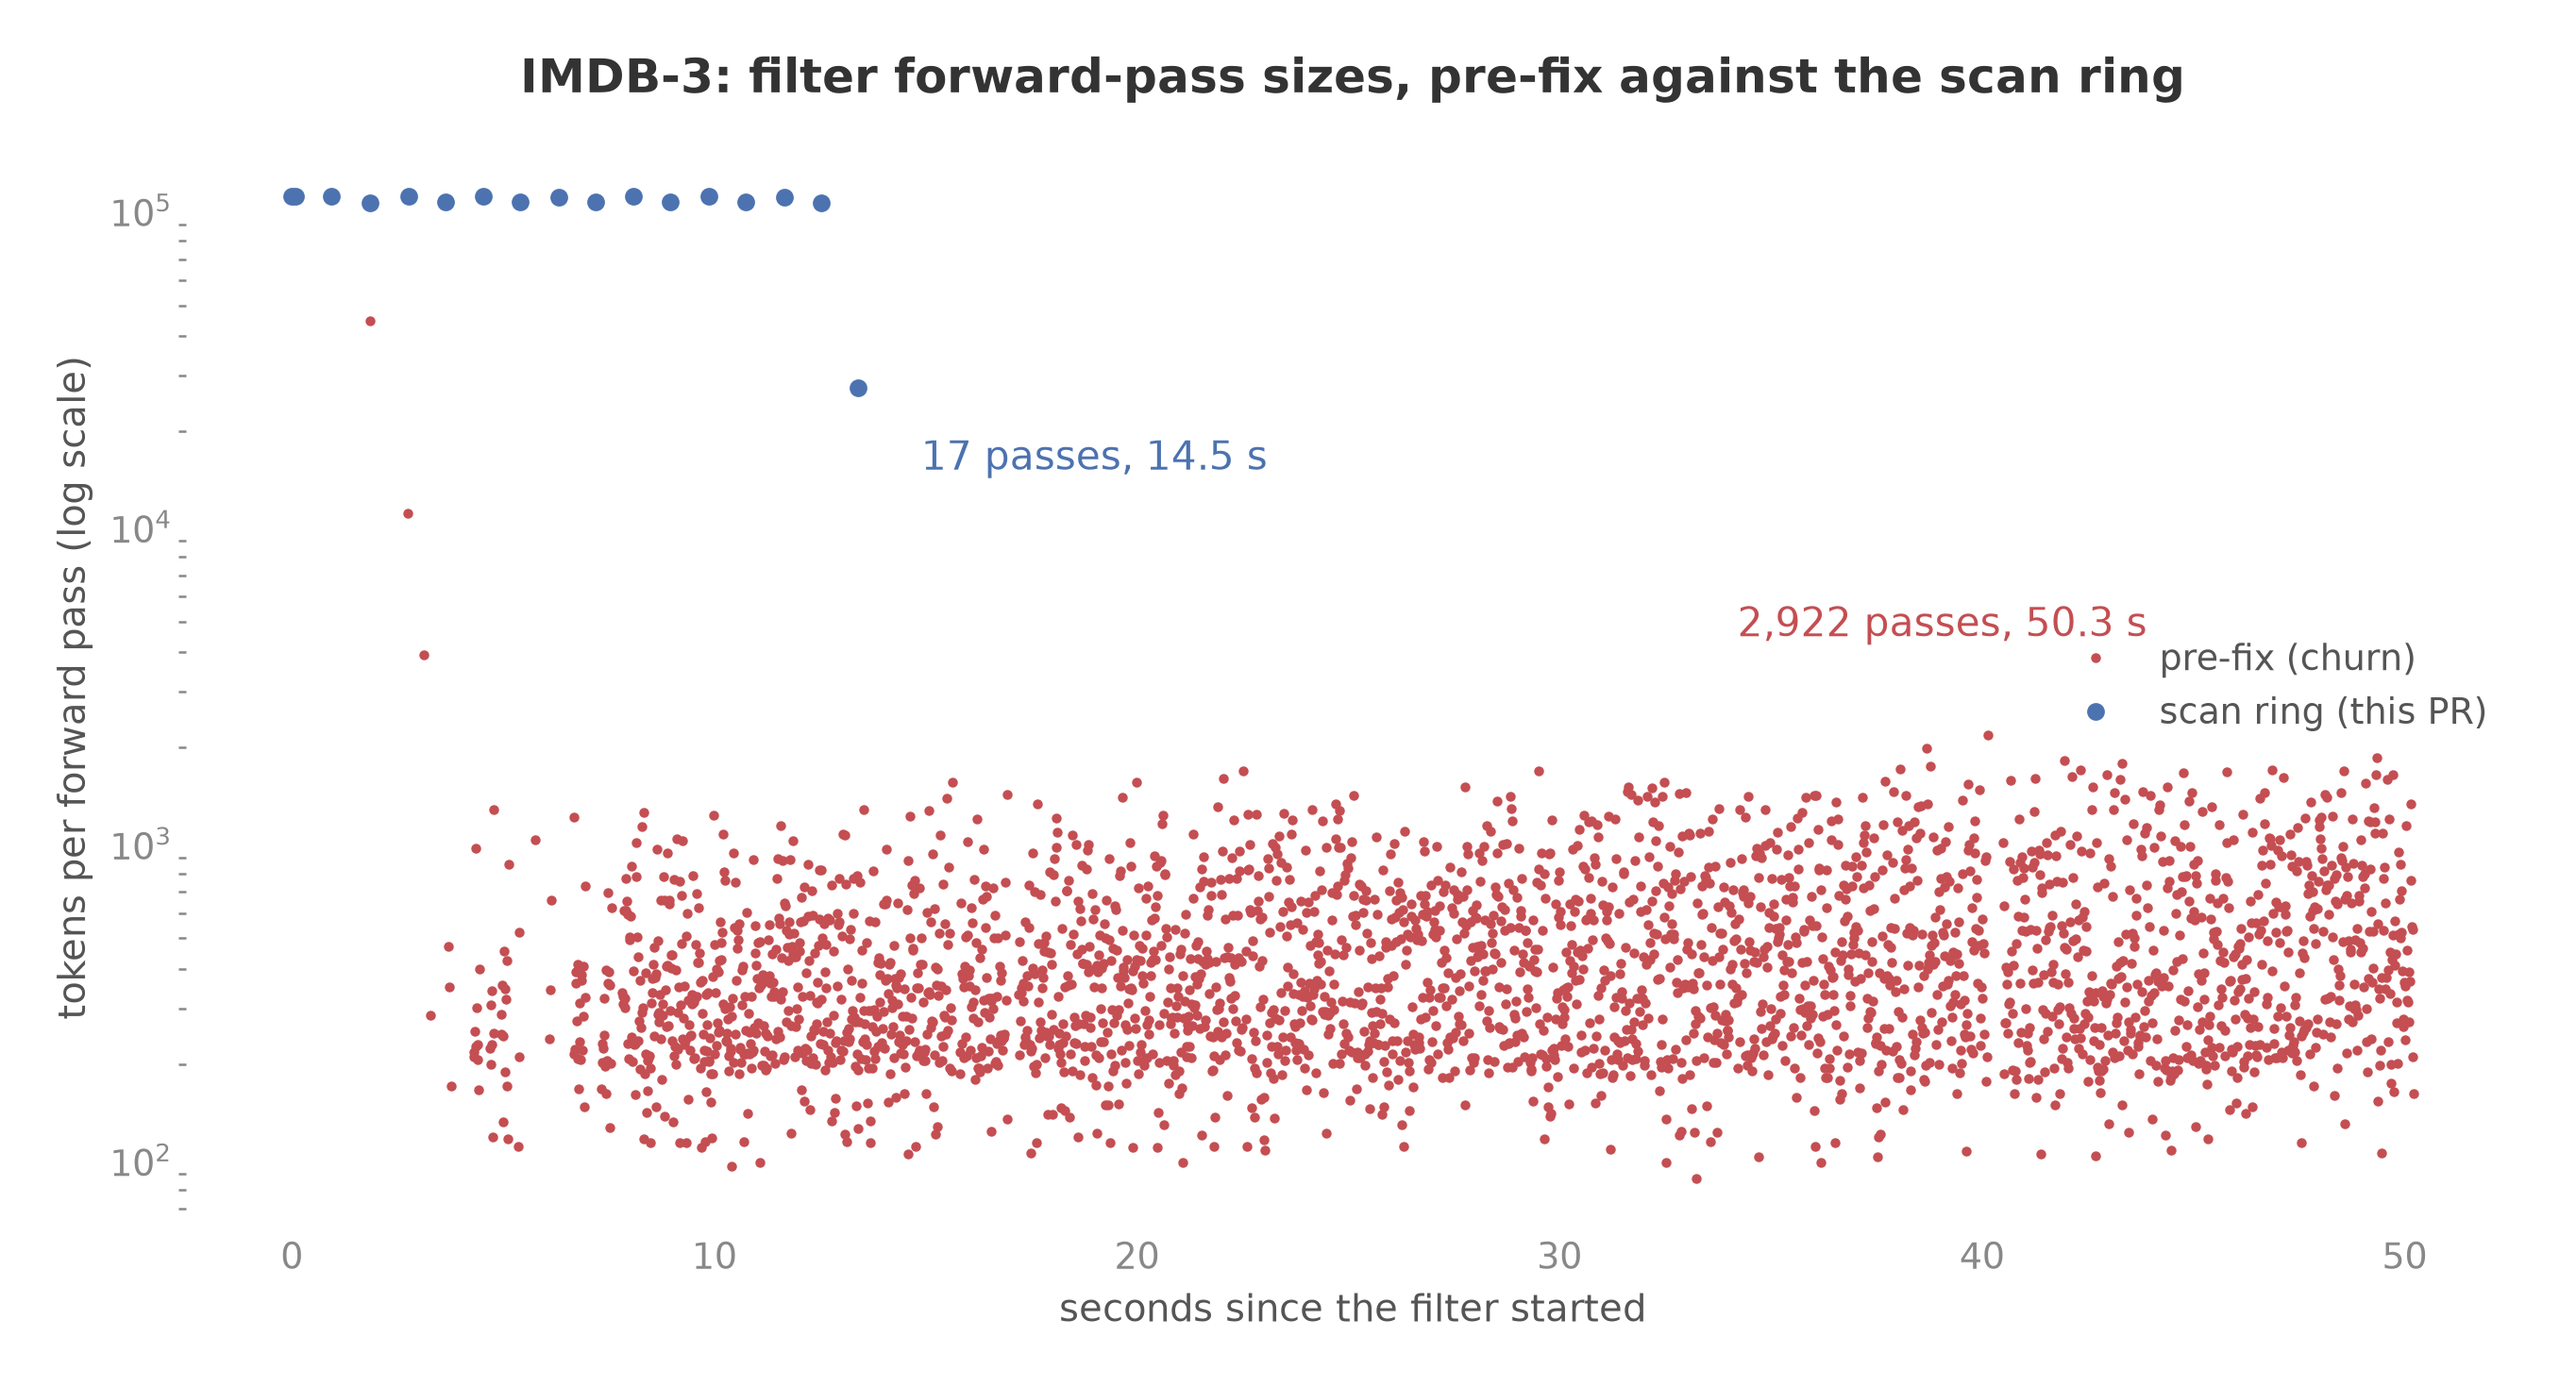
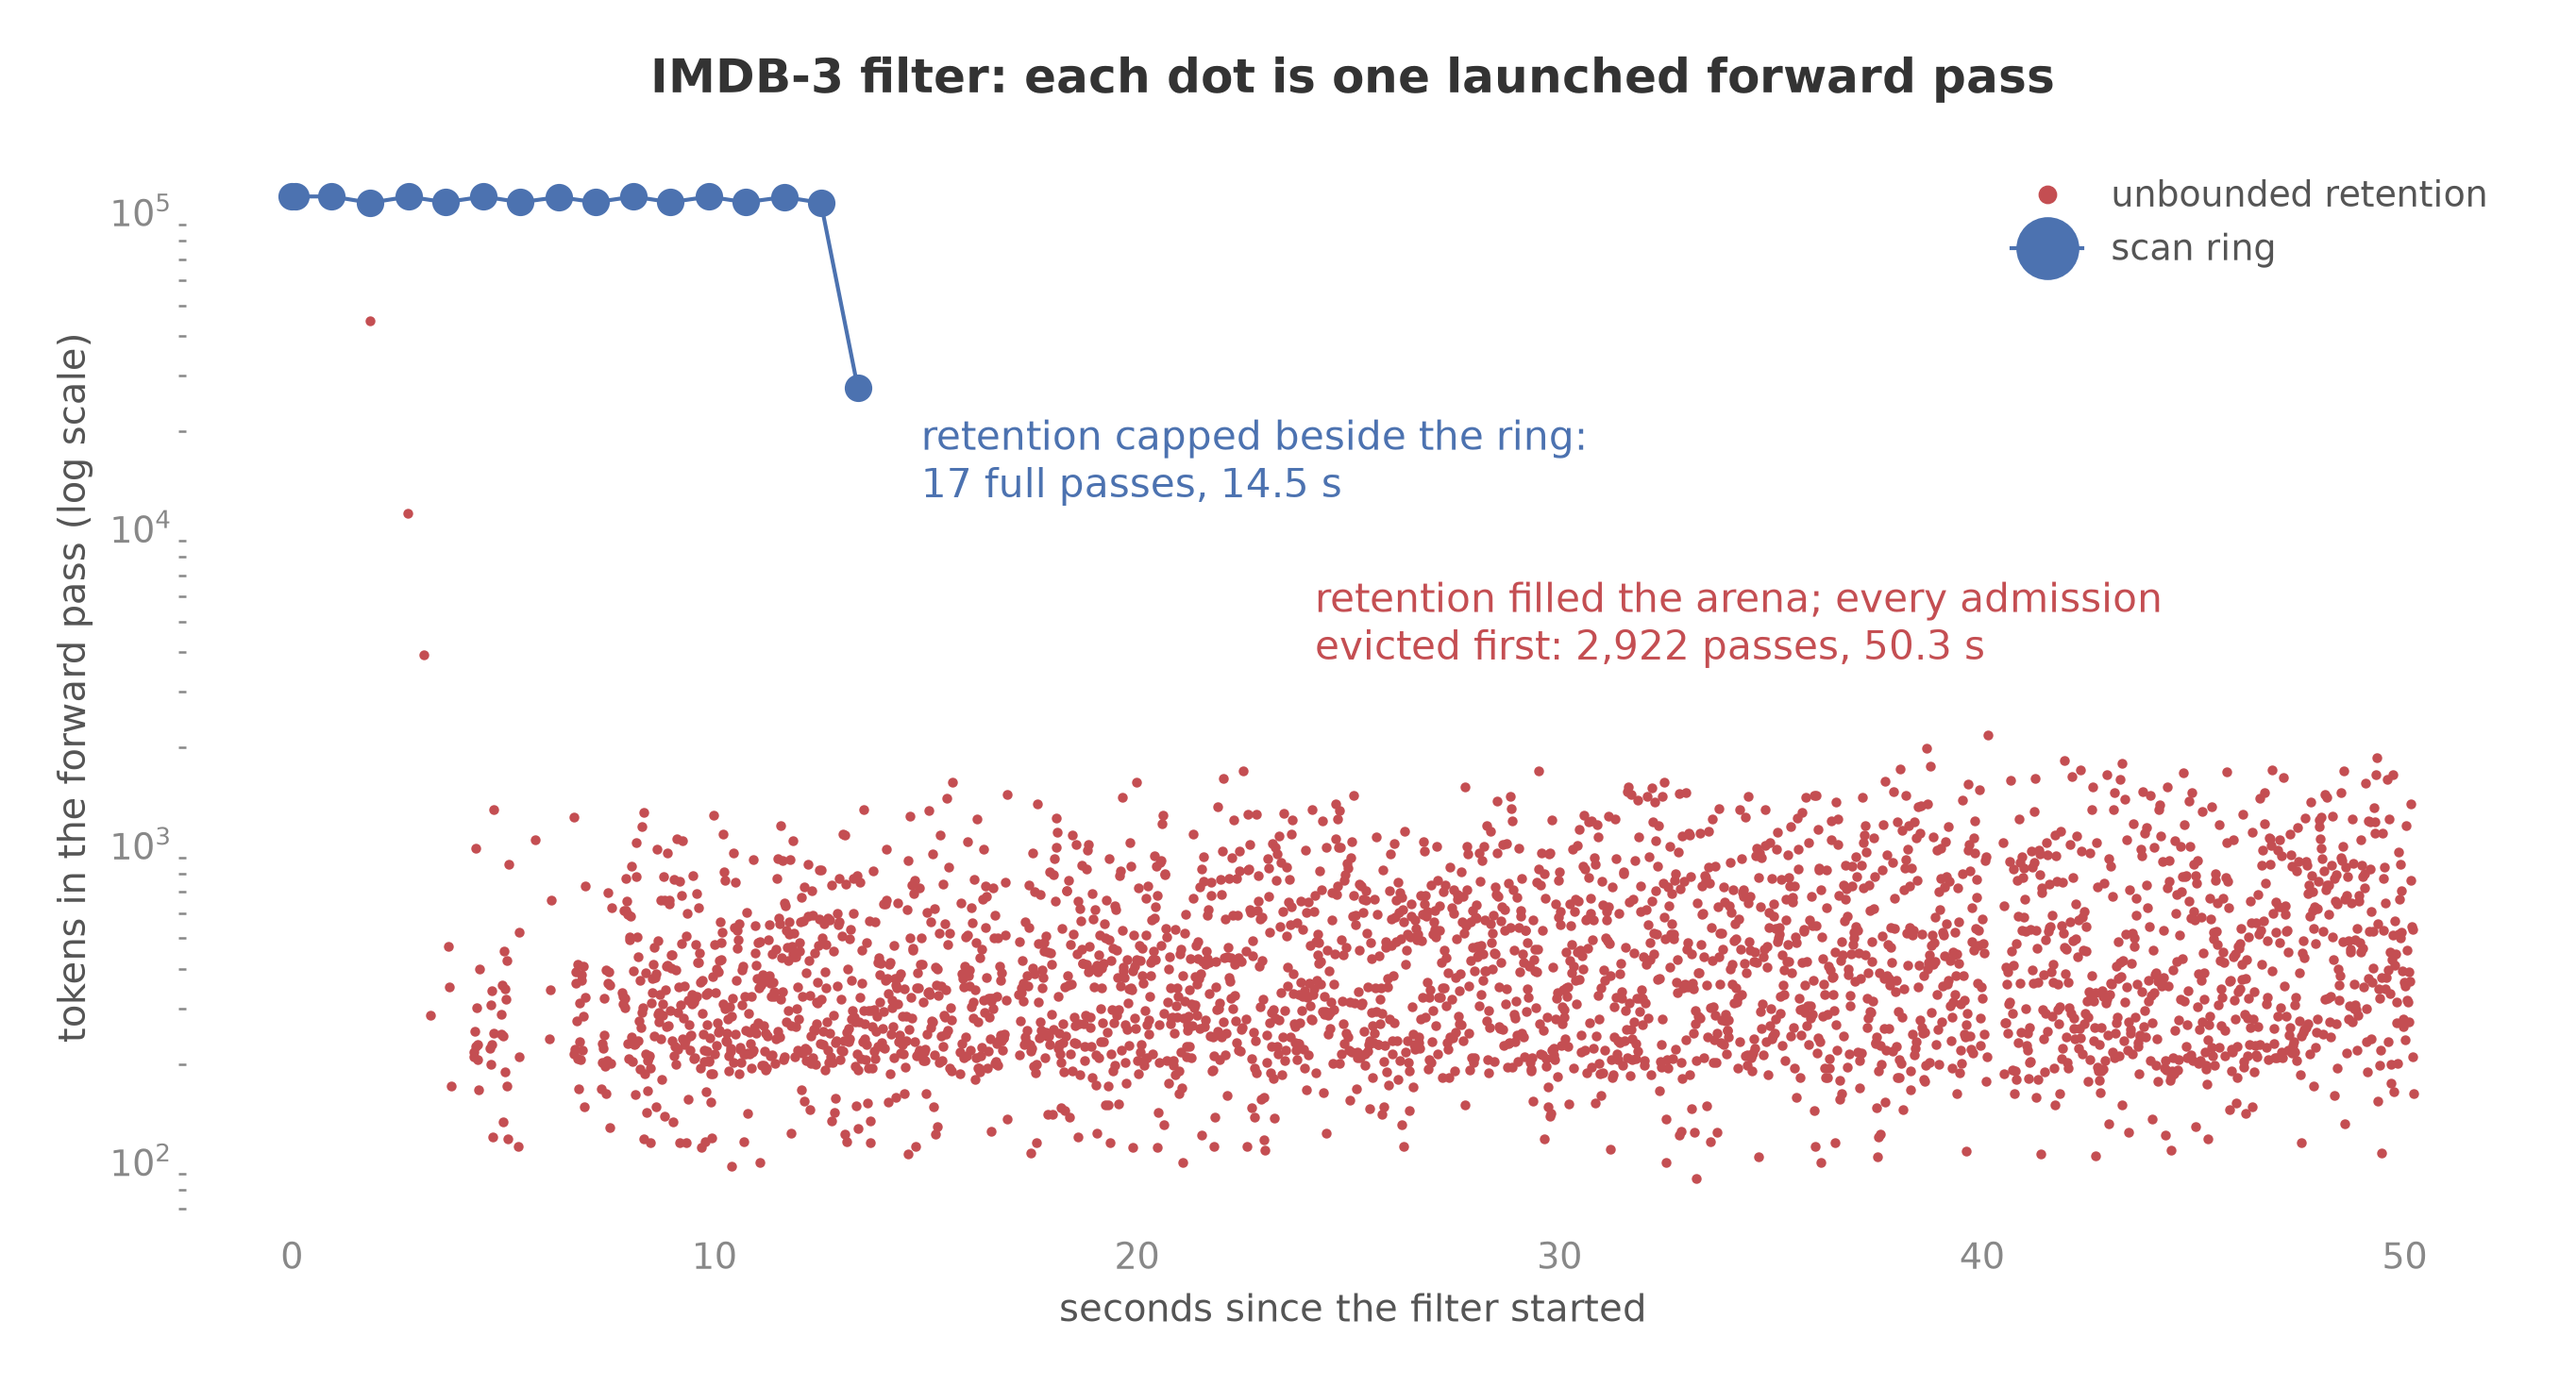
Rename the comparison runs by mechanism and make the timeline plot self-explanatory
The timeline's title now says each dot is one launched forward
pass, the 17 scan-ring passes are connected into a visible launch
sequence, and both runs are named by what they do - unbounded
retention against the scan ring - in the figures and the report,
instead of relative to the fix.

Claude-Session: https://claude.ai/code/session_01LCNhjRhCWLPyrH8TJk6zSt

diff --git a/reports/make_kv_ring_fix_plots.py b/reports/make_kv_ring_fix_plots.py
@@ -52,25 +52,27 @@ def timeline(before, after):
     fig, ax = plt.subplots(figsize=(9, 4.8))
     bx, by = chunk_series(filter_phase(before))
     ax_, ay = chunk_series(filter_phase(after))
-    ax.plot(bx, by, ".", color=RED, ms=3, label="pre-fix (churn)")
-    ax.plot(ax_, ay, ".", color=BLUE, ms=7,
-            label="scan ring (this PR)")
+    ax.plot(bx, by, ".", color=RED, ms=3,
+            label="unbounded retention")
+    ax.plot(ax_, ay, "-o", color=BLUE, ms=6, lw=1,
+            label="scan ring")
     ax.set_yscale("log")
     ax.set_xlabel("seconds since the filter started")
-    ax.set_ylabel("tokens per forward pass (log scale)")
-    ax.set_title("IMDB-3: filter forward-pass sizes, "
-                 "pre-fix against the scan ring")
+    ax.set_ylabel("tokens in the forward pass (log scale)")
+    ax.set_title("IMDB-3 filter: each dot is one launched "
+                 "forward pass")
     bw = filter_phase(before)["wall_s"]
     aw = filter_phase(after)["wall_s"]
-    bn = len(by)
-    an = len(ay)
-    ax.annotate(f"{bn:,} passes, {bw:.1f} s",
-                xy=(bx[-1], by[-1]), xytext=(bx[-1] - 16, 4500),
-                color=RED)
-    ax.annotate(f"{an} passes, {aw:.1f} s",
-                xy=(ax_[-1], ay[-1]),
-                xytext=(ax_[-1] + 1.5, ay[-1] * 0.55), color=BLUE)
-    ax.legend(loc="center right", frameon=False)
+    ax.annotate(
+        f"retention filled the arena; every admission\n"
+        f"evicted first: {len(by):,} passes, {bw:.1f} s",
+        xy=(bx[-1], by[-1]), xytext=(bx[-1] - 26, 3800), color=RED)
+    ax.annotate(
+        f"retention capped beside the ring:\n"
+        f"{len(ay)} full passes, {aw:.1f} s",
+        xy=(ax_[-1], ay[-1]),
+        xytext=(ax_[-1] + 1.5, ay[-1] * 0.45), color=BLUE)
+    ax.legend(loc="upper right", frameon=False, markerscale=2.5)
     fig.tight_layout()
     fig.savefig(OUT / "kv_ring_fix_timeline.png", dpi=300)
 
@@ -98,8 +100,8 @@ def walls(before, after):
     ax.set_xticks(list(x))
     ax.set_xticklabels([f"{n} phase" for n, _, _ in groups])
     ax.set_ylabel("seconds")
-    ax.set_title("IMDB-3 phase walls: pre-fix (gray) against "
-                 "the scan ring (blue)")
+    ax.set_title("IMDB-3 phase walls: unbounded retention (gray) "
+                 "against the scan ring (blue)")
     fig.tight_layout()
     fig.savefig(OUT / "kv_ring_fix_walls.png", dpi=300)
 
@@ -112,7 +114,8 @@ def main(workdir):
     timeline(before, after)
     walls(before, after)
 
-    for name, run in (("pre-fix", before), ("scan ring", after)):
+    for name, run in (("unbounded retention", before),
+                      ("scan ring", after)):
         u = run["unprofiled"]
         f = filter_phase(run)
         print(f"{name}: engine {u['engine_wall_s']}s, filter "

diff --git a/reports/2026-08-30-kv-ring-fix.md b/reports/2026-08-30-kv-ring-fix.md
@@ -44,8 +44,7 @@ never fire.
 Confirming run: `ablations/discrepancy_timeline.py` (the same
 instrumented cell as the discrepancy report; it wraps the engine
 without modifying it) rerun with `--out-prefix ringfix`, sf 0.1,
-Qwen3 4B fp8, one H100, so the pre-fix files stay intact for
-comparison.
+Qwen3 4B fp8, one H100, so the unbounded-retention files stay intact for comparison.
 
 ## Prediction
 
@@ -55,19 +54,20 @@ Stated before the run:
   for the whole scan (tens of chunks, not 2,916) and takes 15 to
   17 seconds, matching IMDB-1's 15.06 seconds for identical work;
   the join stays at about 18.5 to 19.5 seconds; engine wall 34 to
-  38 seconds, against 68.9 measured pre-fix in the same harness and
-  75.0 recorded in the benchmark.
+  38 seconds, against 68.9 measured with unbounded retention in
+  the same harness and 75.0 recorded in the benchmark.
 - IMDB-3 retention: the pool fills to about 8,800 pages
   (141,000 tokens); the join finds about 400 to 500 anchors
   resident (the longest survivors), a similar hit mass to the
-  137,397 tokens the pre-fix run got - the fix does not buy more
+  137,397 tokens the unbounded-retention run got - the fix does
+  not buy more
   hits, it stops paying 35 seconds for them. Regret stays about
   1.2M tokens; the misses just stop costing batch shape.
 - BIO-2: unchanged within noise (about 128 to 131 seconds, regret
   0, no evictions) - its plan retains nothing, so only the shared
   code paths could move it.
 - Smoke first (sf 0.01): corpus fits beside the ring, everything
-  retained, join reuses everything, as pre-fix.
+  retained, join reuses everything, as with unbounded retention.
 
 ## Result
 
@@ -77,7 +77,7 @@ are the unprofiled pass; the profiled pass agrees within 5%.
 
 ### IMDB-3
 
-| | pre-fix | scan ring |
+| | unbounded retention | scan ring |
 |---|---:|---:|
 | Engine wall (s) | 68.93 | 32.68 |
 | Filter phase (s) | 50.28 | 14.54 |
@@ -95,8 +95,8 @@ Figure: plots/kv_ring_fix_timeline.png
 Figure: plots/kv_ring_fix_walls.png
 
 - The engine wall halved: 32.68 seconds, compared with 68.93
-  measured pre-fix in the same harness, 75.0 recorded in the
-  benchmark, and 52.65 recorded for stock vLLM. The filter now runs
+  measured with unbounded retention in the same harness, 75.0
+  recorded in the benchmark, and 52.65 recorded for stock vLLM. The filter now runs
   17 near-budget passes at 99.6% GPU busy (chunk grain) and lands
   at 14.54 seconds - level with IMDB-1's 15.06 seconds for the
   identical filter work, so the composition penalty is gone.
@@ -105,27 +105,29 @@ Figure: plots/kv_ring_fix_walls.png
   start minus the 13,797-page ring), holding 171 of the longest
   survivors at 140,458 tokens - within 0.7% of the planner's
   141,498-token credit. Every one of the 171 was still resident at
-  the join and hit. Zero eviction calls anywhere; pre-fix, churn
+  the join and hit. Zero eviction calls anywhere; with unbounded retention, churn
   evicted 4,260 keys (78,268 pages) during the filter alone. One
   prediction miss, in the right direction: 400 to 500 resident
   anchors were predicted from the corpus mean length, but the
   pool's replacement rule keeps the longest survivors, so the same
   token mass arrived as 171 documents of 821 mean tokens against
   the 310-token survivor mean.
-- Regret is unchanged (1.22M tokens pre and post), as predicted:
-  the fix does not buy more hits - the pre-fix run ended up with a
+- Regret is unchanged (1.22M tokens in both runs), as
+  predicted: the fix does not buy more hits - the
+  unbounded-retention run ended up with a
   similar hit mass - it stops paying 35 seconds of collapsed
   batches for them. Both runs produced the same 4,380 survivors,
   so the change is performance-only.
 - Benchmark metrics for IMDB-3 at the new wall: 52,560 evaluated
   document pairs / 32.68 s = 1,608 document pairs/second
-  (recorded pre-fix: 701); $0.0359 per query at the H100 rate of
-  $3.9492/hour, compared with $0.0823 recorded pre-fix and
+  (recorded with unbounded retention: 701); $0.0359 per query at the H100 rate of
+  $3.9492/hour, compared with $0.0823 recorded with unbounded retention and
   $0.0578 for stock vLLM's recorded 52.65 seconds.
 
 ### BIO-2
 
-128.22 seconds, compared with 130.35 pre-fix - container variance,
+128.22 seconds, compared with 130.35 with unbounded retention -
+container variance,
 same 98 forward passes at 105,861 mean tokens, 99.4% busy, regret
 0, no evictions. Its plan retains nothing, so this is the expected
 no-change control.
@@ -136,7 +138,7 @@ Data on the `quail-results` volume:
   (sf 0.1); `ringfix_imdb3_sf0.01.json`, `ringfix_bio2_sf0.01.json`
   (smoke)
 - `/results/ablations/ringfix_traces/` (five chrome traces)
-- Pre-fix comparisons: `discrepancy_imdb3.json`,
+- Unbounded-retention comparisons: `discrepancy_imdb3.json`,
   `discrepancy_bio2.json` from the discrepancy report.
 - Modal function calls: `fc-01M18J895155R1VS59VRPTGWEN` (sf 0.1),
   `fc-01M18J4YZ2NZH568D71KA1HEG0` (smoke).
